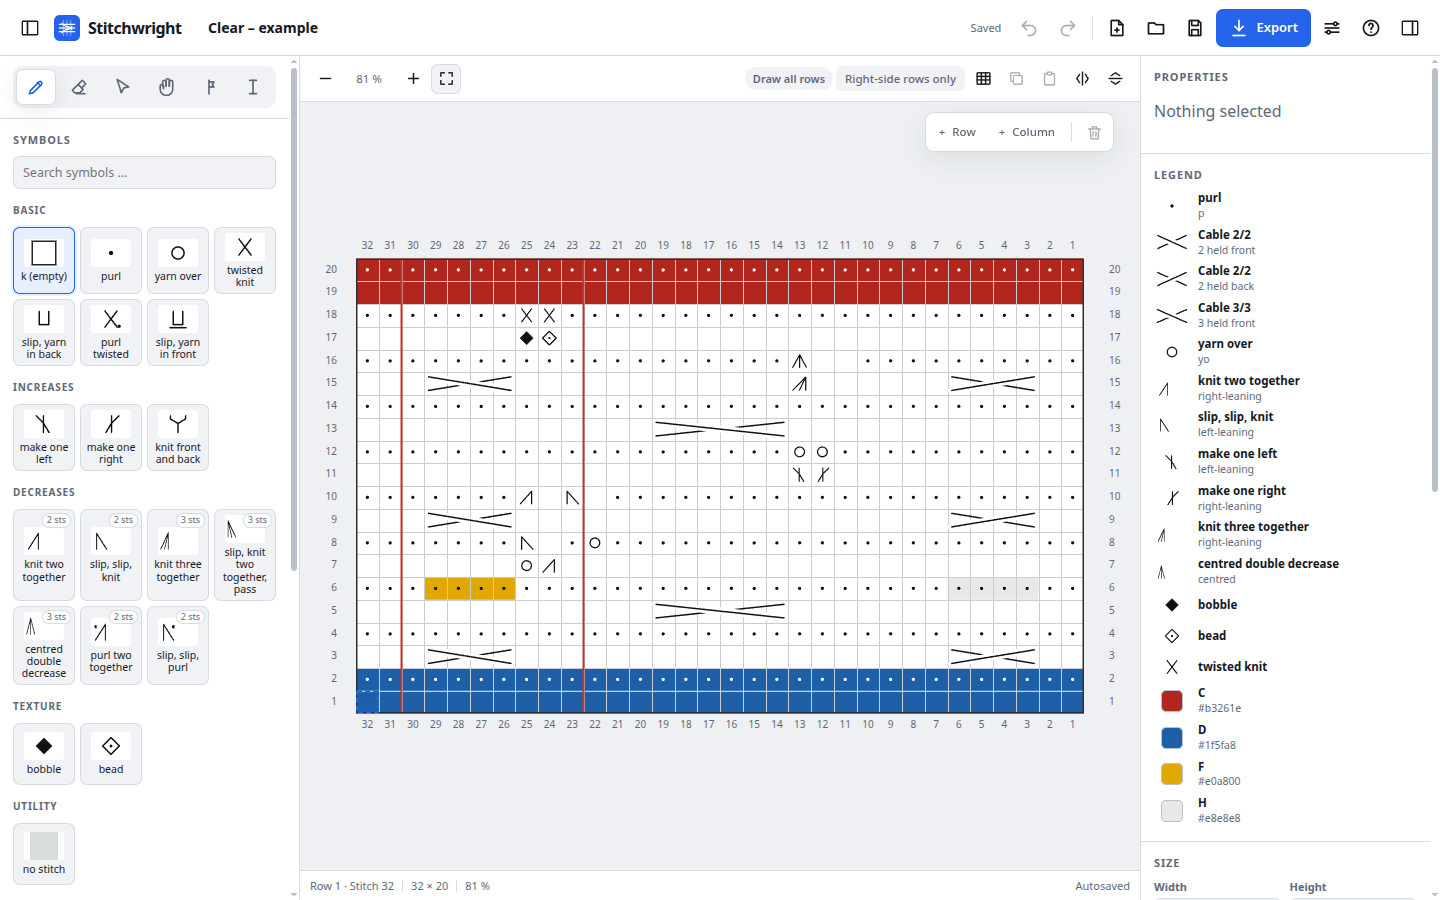
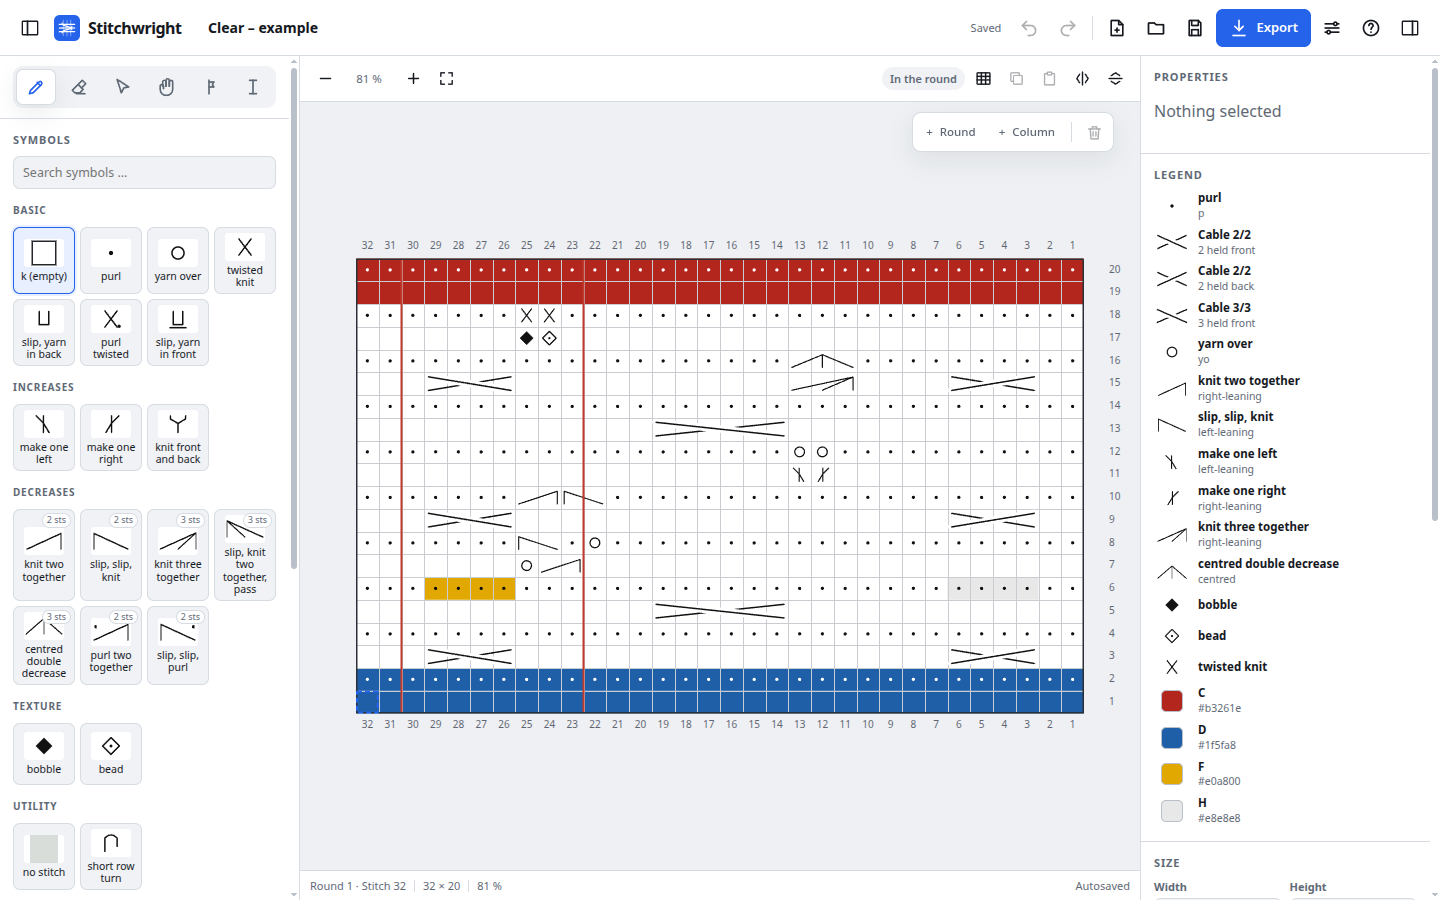
0.6.7-alpha.1: Reihennummern an der Startseite, Abnahmen in voller Breite
Version und Service-Worker-Cache erhöht, Changelog, Status, Projektseite,
How-tos und Screenshot aktualisiert.

diff --git a/tests/audit-regressions.test.js b/tests/audit-regressions.test.js
@@ -399,7 +399,7 @@ test("SW-24: failed SW install does not activate or delete foreign caches", asyn
     },
     caches: {
       open: async () => ({ add: async () => { throw new Error("network down"); } }),
-      keys: async () => ["other-app-v1", "stitchwright-v0.2.0", "stitchwright-v0.3.1", "stitchwright-v0.4.0", "stitchwright-v0.5.0", "stitchwright-v0.5.1", "stitchwright-v0.6.0", "stitchwright-v0.6.1", "stitchwright-v0.6.2", "stitchwright-v0.6.3", "stitchwright-v0.6.4", "stitchwright-v0.6.5", "stitchwright-v0.6.6"],
+      keys: async () => ["other-app-v1", "stitchwright-v0.2.0", "stitchwright-v0.3.1", "stitchwright-v0.4.0", "stitchwright-v0.5.0", "stitchwright-v0.5.1", "stitchwright-v0.6.0", "stitchwright-v0.6.1", "stitchwright-v0.6.2", "stitchwright-v0.6.3", "stitchwright-v0.6.4", "stitchwright-v0.6.5", "stitchwright-v0.6.6", "stitchwright-v0.6.7"],
       delete: async (key) => { deleted.push(key); return true; }
     }
   });
@@ -409,6 +409,6 @@ test("SW-24: failed SW install does not activate or delete foreign caches", asyn
   assert.equal(skipped, false);
   handlers.activate({ waitUntil: (promise) => { operation = promise; } });
   await operation;
-  assert.deepEqual(deleted, ["stitchwright-v0.2.0", "stitchwright-v0.3.1", "stitchwright-v0.4.0", "stitchwright-v0.5.0", "stitchwright-v0.5.1", "stitchwright-v0.6.0", "stitchwright-v0.6.1", "stitchwright-v0.6.2", "stitchwright-v0.6.3", "stitchwright-v0.6.4", "stitchwright-v0.6.5"]);
+  assert.deepEqual(deleted, ["stitchwright-v0.2.0", "stitchwright-v0.3.1", "stitchwright-v0.4.0", "stitchwright-v0.5.0", "stitchwright-v0.5.1", "stitchwright-v0.6.0", "stitchwright-v0.6.1", "stitchwright-v0.6.2", "stitchwright-v0.6.3", "stitchwright-v0.6.4", "stitchwright-v0.6.5", "stitchwright-v0.6.6"]);
   assert.equal(claimed, true);
 });

diff --git a/about.html b/about.html
@@ -58,7 +58,7 @@
       <div>
         <strong>This is an early alpha, not finished software.</strong>
         <p>
-          Version 0.6.6-alpha.1 is the current public alpha. Bugs are likely, the
+          Version 0.6.7-alpha.1 is the current public alpha. Bugs are likely, the
           file format may still change, and not every feature has been tested
           on every device. Please keep an extra JSON copy of charts you care
           about. Do not use it for important work yet.
@@ -385,7 +385,7 @@ node cli/stitchwright.js legend chart.strickschrift.json</pre>
 
   <footer>
     <div class="footer-inner">
-      <span>Stitchwright 0.6.6-alpha.1 · 22 November 2026 · GPL-3.0</span>
+      <span>Stitchwright 0.6.7-alpha.1 · 22 November 2026 · GPL-3.0</span>
       <span><a href="./">Editor</a> · <a href="https://github.com/Stecker1312/stitchwright" rel="noopener">Source code</a> · <a href="#status">Alpha note</a></span>
     </div>
   </footer>

diff --git a/how-to.html b/how-to.html
@@ -250,7 +250,7 @@
 
   <footer>
     <div class="footer-inner">
-      <span>Stitchwright 0.6.6-alpha.1 · GPL-3.0</span>
+      <span>Stitchwright 0.6.7-alpha.1 · GPL-3.0</span>
       <span><a href="./">Editor</a> · <a href="about.html">Project page</a> · <a href="https://github.com/Stecker1312/stitchwright" rel="noopener">Source code</a></span>
     </div>
   </footer>

diff --git a/how-to.de.html b/how-to.de.html
@@ -251,7 +251,7 @@
 
   <footer>
     <div class="footer-inner">
-      <span>Stitchwright 0.6.6-alpha.1 · GPL-3.0</span>
+      <span>Stitchwright 0.6.7-alpha.1 · GPL-3.0</span>
       <span><a href="./">Editor</a> · <a href="about.html">Projektseite</a> · <a href="https://github.com/Stecker1312/stitchwright" rel="noopener">Quellcode</a></span>
     </div>
   </footer>

diff --git a/sw.js b/sw.js
@@ -8,7 +8,7 @@
  */
 
 const CACHE_PREFIX = "stitchwright-";
-const CACHE = `${CACHE_PREFIX}v0.6.6`;
+const CACHE = `${CACHE_PREFIX}v0.6.7`;
 
 // A failed core asset means the app cannot start. Installation must fail and
 // leave the previous cache in place.

diff --git a/src/version.js b/src/version.js
@@ -2,5 +2,5 @@
  * Single source for the public version string.
  * Keep this in sync with package.json and the release tag.
  */
-export const APP_VERSION = "0.6.6-alpha.1";
+export const APP_VERSION = "0.6.7-alpha.1";
 export const APP_DATE = "2026-11-22";

diff --git a/CHANGELOG.md b/CHANGELOG.md
@@ -1,5 +1,25 @@
 # Changelog
 
+## 0.6.7-alpha.1 – 22 November 2026
+
+Row numbers sit where the row starts; decreases use their full width.
+
+### New
+
+- Flat charts number rows on the starting edge: odd rows on the right, even
+  rows on the left. Round charts and right-side-only charts keep every number
+  on the right.
+- Decrease glyphs now span the stitches they consume: `k2tog`, `ssk`, `p2tog`
+  and `ssp` cover two cells; `k3tog`, `sk2p` and `cdd` cover three. No empty
+  cell inside a decrease looks like a knit stitch any more.
+- The SVG export uses the same rules as the editor.
+
+### Checks
+
+- 167 Node tests green; `npm run check` green.
+- Browser check: Round test shows alternating row numbers; `ssk` covers two
+  cells and meets the no-stitch cells; the legend matches the chart.
+
 ## 0.6.6-alpha.1 – 22 November 2026
 
 The short-row turn is back in the palette.

diff --git a/STATUS.md b/STATUS.md
@@ -1,7 +1,7 @@
 # Status
 
 - Stand: 2026-11-22
-- Version: **0.6.6-alpha.1**
+- Version: **0.6.7-alpha.1**
 - Phase: Öffentliche Vorabversion (Alpha)
 - Sichtbarkeit: öffentlich, GitHub Pages:
   <https://stecker1312.github.io/stitchwright/>
@@ -25,6 +25,8 @@
 
 ## Erledigt
 
+- 0.6.7-alpha.1 veröffentlicht (2026-11-22): Reihennummern an der Startseite,
+  Abnahmen in voller Maschenbreite
 - 0.6.6-alpha.1 veröffentlicht (2026-11-22): Wende wieder in der Palette
 - 0.6.5-alpha.1 veröffentlicht (2026-11-22): Runden als Chart-Eigenschaft,
   CI-Check ohne Lockfile-Abhängigkeit

diff --git a/docs/adr/D009-veroeffentlichung.md b/docs/adr/D009-veroeffentlichung.md
@@ -17,7 +17,7 @@ Stand: Fehler und Änderungen am Dateiformat sind noch möglich.
   `https://stecker1312.github.io/stitchwright/`.
 - Die erste Version heißt `0.1.0-alpha.1` und wird als **frühe Vorabversion**
   gekennzeichnet – im README, auf der Projektseite, im Changelog und im
-  Release. Die aktuelle Alpha ist `0.6.6-alpha.1`.
+  Release. Die aktuelle Alpha ist `0.6.7-alpha.1`.
 - Die Lizenz bleibt GPL-3.0.
 - Es gibt kein Support-Versprechen und keine Produktionsgarantie.
 - Cloud, Konten, Kollaboration und Telemetrie bleiben ausgeschlossen.

diff --git a/AGENTS.md b/AGENTS.md
@@ -43,7 +43,7 @@ hält Erweiterungspunkte offen, aber niemand baut sie ohne neue Entscheidung.
 5. `STATUS.md` und `docs/JOURNAL.md` am Ende der Sitzung aktualisieren.
 6. Kleine, nachvollziehbare Commits. Commit-Nachricht: was und warum.
 7. Nie `git push --force`. Veröffentlichung über SOP-004; der aktuelle Stand
-   ist eine öffentliche Alpha (0.6.6-alpha.1).
+   ist eine öffentliche Alpha (0.6.7-alpha.1).
 
 ## Kontext sparsam
 

diff --git a/README.md b/README.md
@@ -3,7 +3,7 @@
 **Knit charts, local and free.** An editor for knitting diagrams that runs in
 the browser, works offline and sends nothing anywhere.
 
-> **Early alpha 0.6.6-alpha.1 (22 November 2026).**
+> **Early alpha 0.6.7-alpha.1 (22 November 2026).**
 > Not ready for important work. Bugs, rough edges and changes to the file
 > format are likely. Please keep an extra JSON copy of charts you care about.
 >
